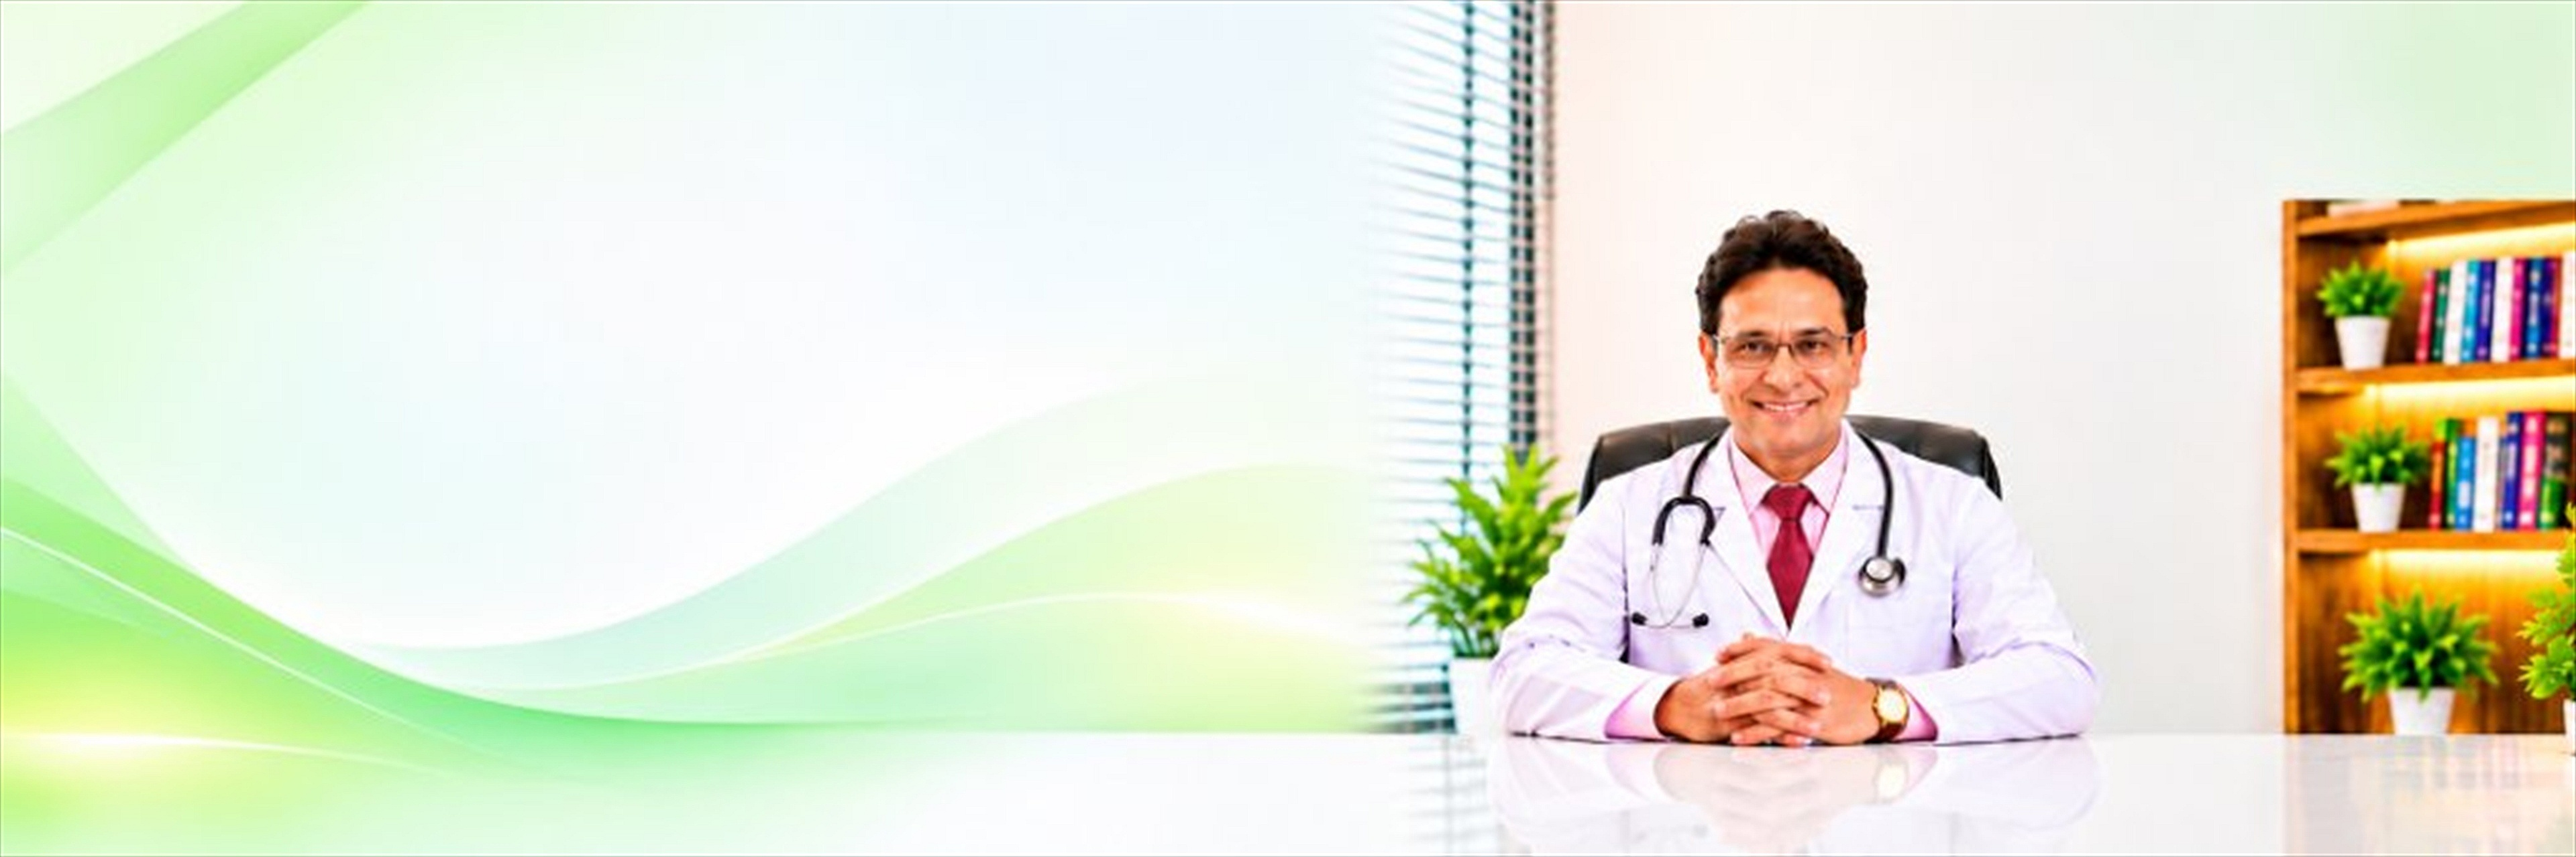
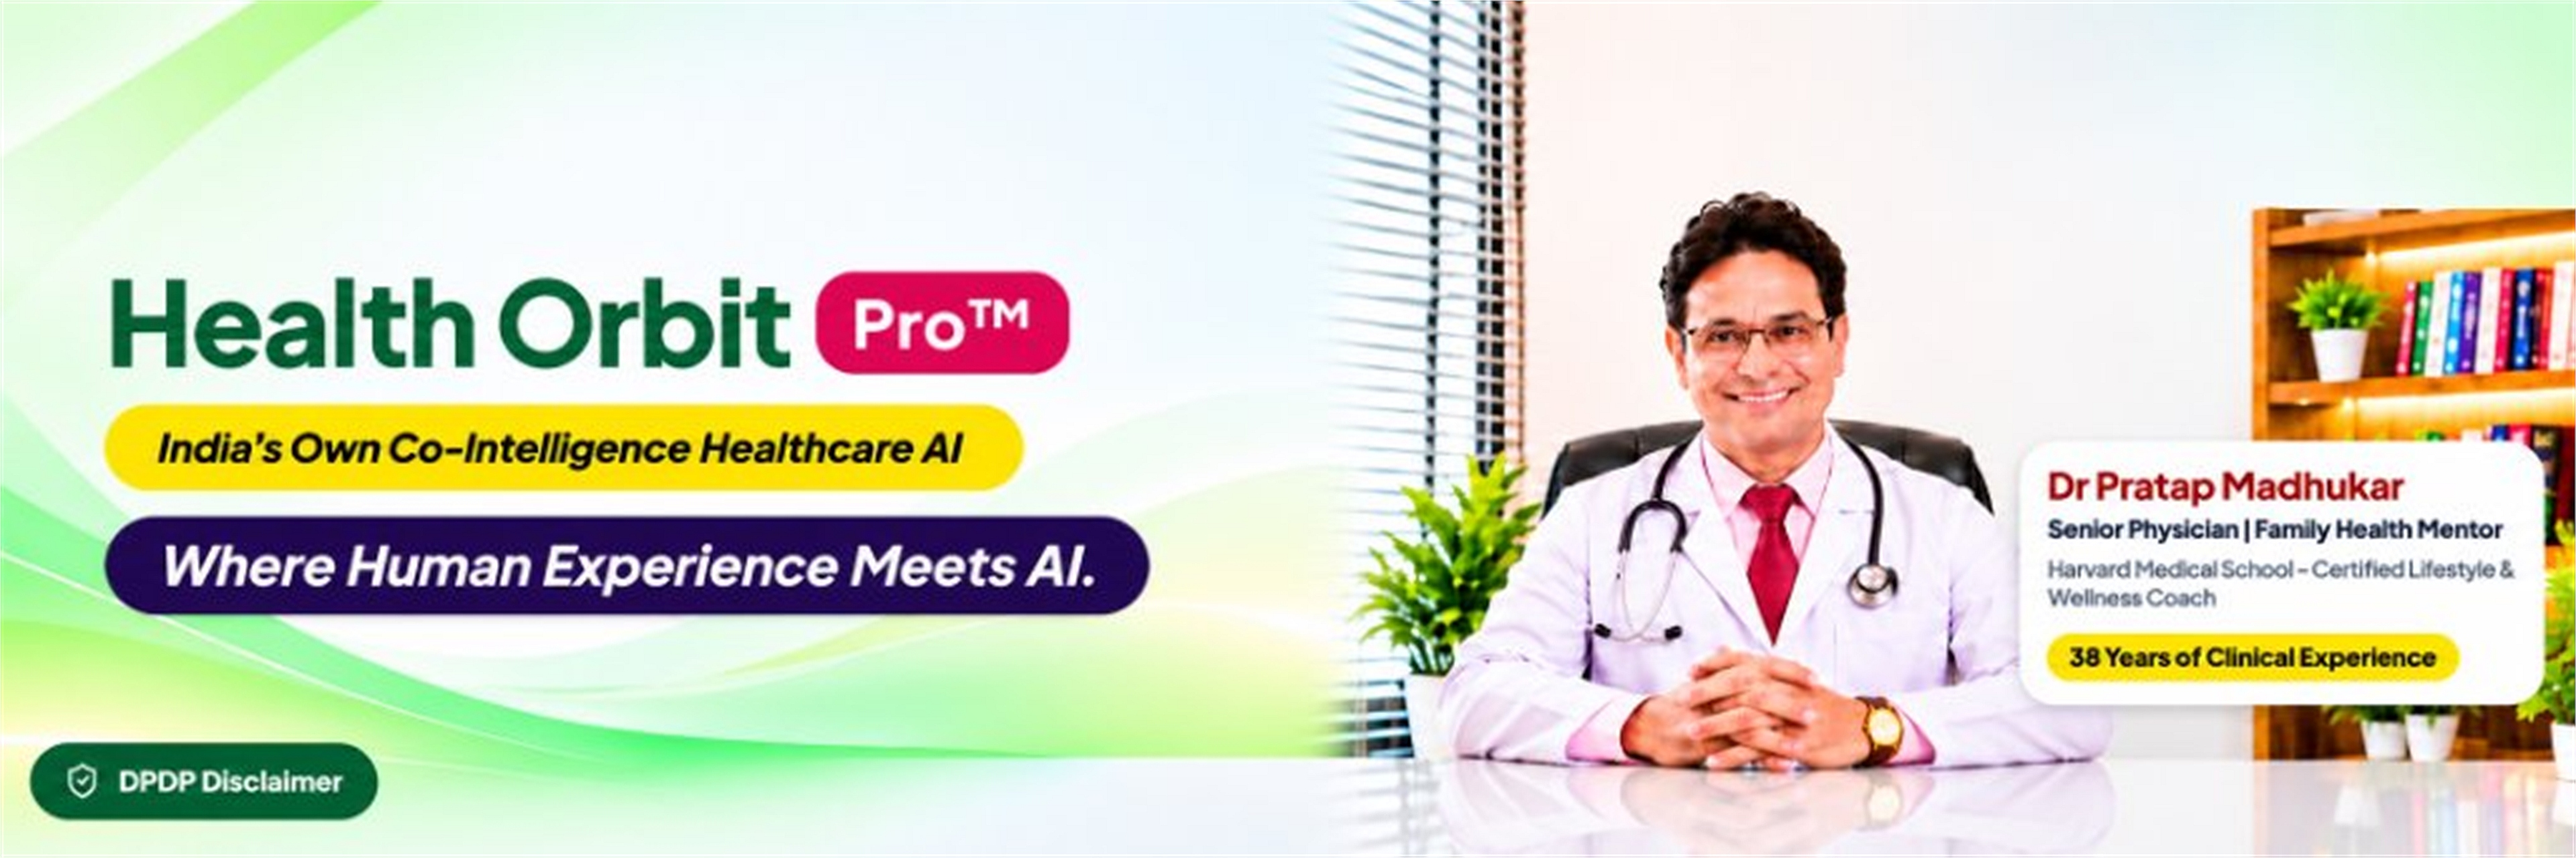
25-nov

diff --git a/frontend/src/components/Hero.jsx b/frontend/src/components/Hero.jsx
@@ -3,74 +3,81 @@ import { BRAND } from '../config/brand';
 import { FOUNDER_INFO } from '../config/company';
 import { useLanguage } from '../context/LanguageContext';
 
-export default function Hero() {
+/**
+ * Hero Component - Fully Responsive Homepage Hero Banner
+ * 
+ * Implements native 100% viewport width banner with automatic aspect-ratio
+ * scaling (1024/341 ~ 3:1). Preserves all embedded typography, badges,
+ * Dr. Pratap Madhukar portrait, and clinic information card.
+ * 
+ * Features:
+ * - Responsive CSS: width 100%, height auto, display block, object-fit contain
+ * - Zero hardcoded pixel width/height, zero fixed positioning, zero distortion/cropping
+ * - Dual asset resolution (Native 1024x341 + UHD 4K 3840x1280 srcset)
+ * - Accessible sr-only landmarks for SEO & screen-readers (no duplicated visual overlays)
+ * - Functional interactive DPDP Disclaimer action matching embedded button bounds
+ * - Seamless breakpoint scaling for Mobile, Tablet, Desktop, 2K QHD, and 4K UHD
+ */
+export default function Hero({ onOpenDisclaimer }) {
   const { t } = useLanguage();
 
   return (
     <section
       id="home"
-      className="relative w-full min-h-[calc(100vh-68px)] flex items-center overflow-hidden bg-white bg-no-repeat bg-cover bg-[position:88%_center] sm:bg-[position:right_center]"
-      style={{
-        backgroundImage: "url('/assets/doctor_clinic_desk_bg.jpg')"
-      }}
+      className="relative w-full bg-white overflow-hidden p-0 m-0 border-b border-slate-100"
     >
-      {/* Light responsive overlay on small screens to ensure text legibility */}
-      <div className="absolute inset-0 bg-gradient-to-r from-white/95 via-white/85 to-white/40 lg:from-transparent lg:via-transparent lg:to-transparent pointer-events-none" />
-
-      {/* Main Hero Container */}
-      <div className="relative z-10 w-full max-w-[1520px] mx-auto px-4 sm:px-6 lg:px-10 py-10 sm:py-16 lg:py-20 xl:py-24">
-        <div className="grid grid-cols-1 lg:grid-cols-12 gap-6 items-center">
-
-          {/* Left Column (Brand, Badges, Formula Equation Strip) */}
-          <div className="lg:col-span-7 xl:col-span-7 flex flex-col items-start text-left space-y-3.5 sm:space-y-4">
-
-            {/* 1. Health Orbit Pro™ Headline */}
-            <div className="flex items-center gap-2.5 sm:gap-3 leading-none">
-              <span className="text-3xl sm:text-4xl lg:text-[46px] xl:text-[52px] font-black text-[#0D5C3A] tracking-tight">
-                {BRAND.prefix}
-              </span>
-              <span className="text-xl sm:text-2xl lg:text-[28px] font-black text-white bg-[#D81B60] px-3.5 py-1 sm:py-1.5 rounded-2xl shadow-sm tracking-normal">
-                {BRAND.suffix}™
-              </span>
-            </div>
-
-            {/* 2. Yellow Pill: India's Own Co-Intelligence Healthcare AI */}
-            <div>
-              <div className="inline-flex items-center px-4 sm:px-6 py-1.5 sm:py-2 rounded-full bg-[#FFE600] text-slate-900 text-xs sm:text-sm lg:text-[15px] font-extrabold italic shadow-2xs border border-yellow-300">
-                <span>{t('hero', 'badge', BRAND.badge)}</span>
-              </div>
-            </div>
-
-            {/* 3. Deep Purple Pill: Where Human Experience Meets AI. */}
-            <div>
-              <div className="inline-flex items-center px-5 sm:px-7 py-2 sm:py-2.5 rounded-full bg-[#200B4D] text-white text-sm sm:text-lg lg:text-[20px] xl:text-[22px] font-black italic shadow-md border border-purple-900">
-                <span>{t('hero', 'headline', BRAND.headline)}</span>
-              </div>
-            </div>
-
-          </div>
-
-          {/* Right Column: Dr. Pratap Credentials Badge (Compact & positioned to the side) */}
-          <div className="lg:col-span-5 xl:col-span-5 flex justify-center lg:justify-end pt-8 sm:pt-12 lg:pt-52 xl:pt-60">
-            <div className="w-full max-w-[250px] sm:max-w-[270px] bg-white/95 backdrop-blur-sm rounded-2xl p-2.5 sm:p-3 shadow-lg border border-slate-200/80 text-left space-y-1 transition-all translate-y-4 sm:translate-y-6 lg:translate-x-4 xl:translate-x-8 lg:translate-y-16">
-              <h3 className="text-sm sm:text-[15px] font-black text-[#8B0000] tracking-tight leading-tight">
-                {FOUNDER_INFO.name}
-              </h3>
-              <p className="text-[10.5px] sm:text-[11px] font-bold text-slate-800 leading-snug">
-                {FOUNDER_INFO.role}
-              </p>
-              <p className="text-[9.5px] sm:text-[10px] font-medium text-slate-600 leading-tight">
-                {FOUNDER_INFO.credentials}
-              </p>
-              <div className="pt-1">
-                <span className="inline-block px-2.5 py-0.5 rounded-full bg-[#FFE600] text-slate-900 text-[10px] font-black shadow-2xs">
-                  {FOUNDER_INFO.experience}
-                </span>
-              </div>
-            </div>
-          </div>
-
+      {/* 1. Accessible Screen-Reader Semantic Content for SEO & Assistive Tech */}
+      <div className="sr-only">
+        <h1>
+          {BRAND.prefix} {BRAND.suffix}™ - {t('hero', 'badge', BRAND.badge)}
+        </h1>
+        <p>{t('hero', 'headline', BRAND.headline)}</p>
+        <div>
+          <h2>{FOUNDER_INFO.name}</h2>
+          <p>{FOUNDER_INFO.role}</p>
+          <p>{FOUNDER_INFO.credentials}</p>
+          <p>{FOUNDER_INFO.experience}</p>
         </div>
+      </div>
+
+      {/* 2. Responsive Hero Banner Container */}
+      <div className="relative w-full max-w-[3840px] mx-auto aspect-[1024/341]">
+        <picture>
+          <source
+            media="(min-width: 1920px)"
+            srcSet="/assets/hero_banner_4k.jpg"
+          />
+          <img
+            src="/assets/hero_banner_original.jpg"
+            srcSet="/assets/hero_banner_original.jpg 1024w, /assets/hero_banner_4k.jpg 3840w"
+            sizes="(min-width: 1920px) 3840px, 100vw"
+            alt="Health Orbit Pro™ - Where Human Experience Meets AI. Senior Physician Dr Pratap Madhukar."
+            className="w-full h-auto block object-contain select-none"
+            style={{
+              width: '100%',
+              height: 'auto',
+              display: 'block',
+              objectFit: 'contain',
+              aspectRatio: '1024 / 341',
+              imageRendering: '-webkit-optimize-contrast'
+            }}
+            loading="eager"
+            fetchPriority="high"
+            decoding="async"
+          />
+        </picture>
+
+        {/* 3. Interactive DPDP Disclaimer Action Overlay */}
+        {/* Exactly covers the embedded 'DPDP Disclaimer' pill (X: ~1.2%..14%, Y: ~86%..95%) */}
+        {onOpenDisclaimer && (
+          <button
+            type="button"
+            onClick={onOpenDisclaimer}
+            className="absolute left-[1.1%] bottom-[5.0%] w-[13.5%] h-[9.0%] min-w-[40px] min-h-[20px] rounded-full cursor-pointer focus:outline-none focus:ring-2 focus:ring-emerald-500 focus:ring-offset-2 z-20 transition-all opacity-0 hover:opacity-100 hover:bg-emerald-600/15 active:scale-95"
+            title="Open DPDP Act 2023 Clinical Governance & Disclaimer"
+            aria-label="Open DPDP Disclaimer and Statutory Patient Rights"
+          />
+        )}
       </div>
     </section>
   );

diff --git a/frontend/src/App.jsx b/frontend/src/App.jsx
@@ -232,6 +232,7 @@ function MainRouter() {
             const el = document.getElementById('categories');
             if (el) el.scrollIntoView({ behavior: 'smooth', block: 'start' });
           }}
+          onOpenDisclaimer={() => setShowDisclaimer(true)}
         />
 
         {/* 2. Interactive Clinical Chat Assistant */}
